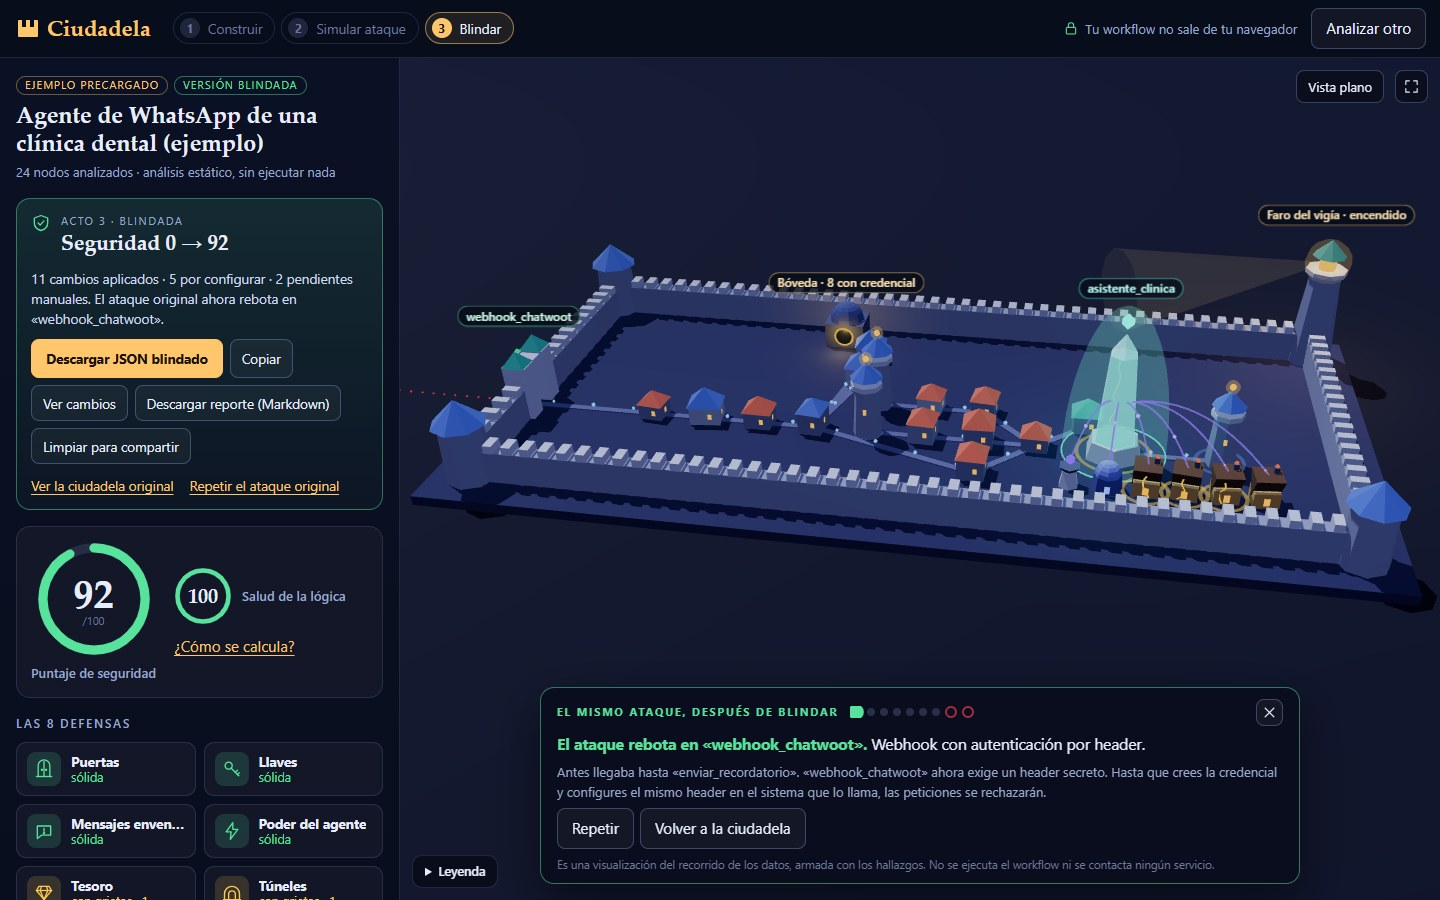
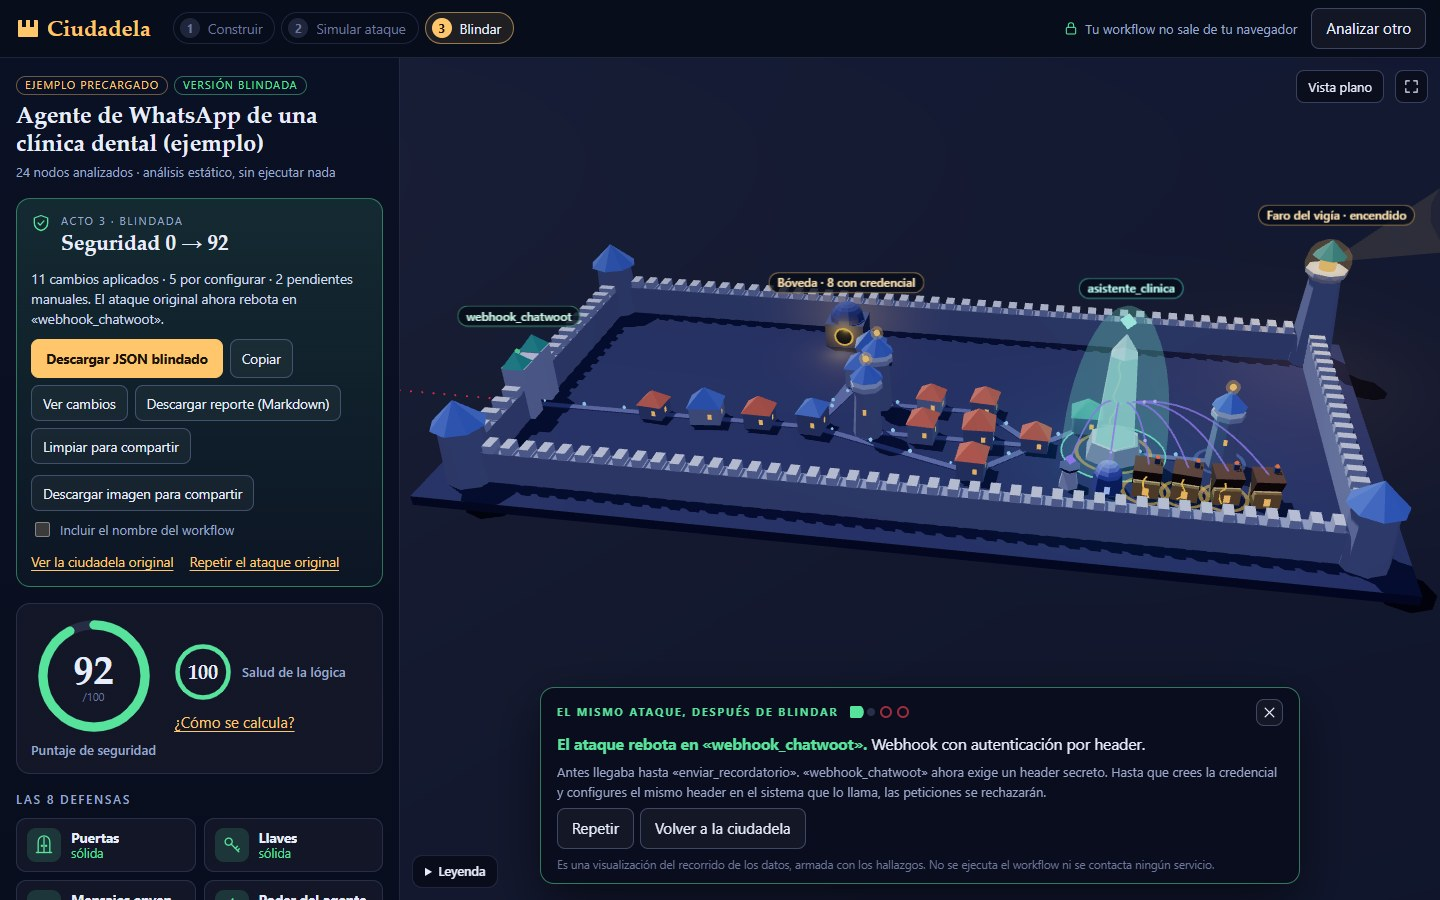
Cierre de la pasada de mejoras para el concurso
Resumen en la bitácora, capturas finales tomadas con todas las tareas aplicadas y límite de aviso del tamaño del bundle ajustado.

diff --git a/vite.config.ts b/vite.config.ts
@@ -24,6 +24,6 @@ function metadatosParaCompartir(): Plugin {
 export default defineConfig({
   base: './',
   plugins: [metadatosParaCompartir()],
-  build: { target: 'es2022', chunkSizeWarningLimit: 900 },
+  build: { target: 'es2022', chunkSizeWarningLimit: 1000 },
   test: { include: ['tests/**/*.test.ts'], environment: 'node' },
 });

diff --git a/BITACORA.md b/BITACORA.md
@@ -414,3 +414,37 @@ Nada falló en esta tarea.
 - Antes de blindar y en la vista plano el botón no aparece (D74); al volver a 3D reaparece y la casilla conserva su estado.
 - Consola limpia. 221 pruebas pasan.
 - Muestra: `docs/capturas/mejoras-t6-tarjeta.png`.
+
+### Cierre de la pasada
+
+| Tarea | Estado | Commit |
+|---|---|---|
+| 1. Que los dos clímax se vean | Hecha | `b26a34a` |
+| 2. Ritmo de la simulación | Hecha | `9cd9b77` |
+| 3. Vista previa al compartir el link | Hecha | `a147eca` |
+| 4. Demostración guiada | Hecha | `46e3ee7` |
+| 5. Reparar del todo los formularios reales | Hecha | `960f7e1` |
+| 6. Tarjeta para compartir (opcional) | Hecha | `48c3fcc` |
+
+No quedó ninguna tarea sin hacer.
+
+**Verificación final, sobre el build de producción** (`npm run build` servido con `vite preview`, Chrome sin interfaz)
+
+- Los tres ejemplos recorren los tres actos a 1440×900 (3D) y a 390×800 (vista plano): clínica 0 → 92, formulario 84/82 → 98/100, bien blindado 100 sin nada que corregir. Consola limpia y ninguna petición a otro origen en los seis recorridos.
+- La demostración guiada corre completa en 51 segundos.
+- 221 pruebas pasan, 0 omitidas. `npm run build` genera `dist/` (915 kB de JS, 252 kB comprimido).
+- Las capturas de `docs/capturas/mejoras-*` se volvieron a tomar al final, con todas las tareas aplicadas.
+
+**Lo que no se pudo verificar aquí**
+
+- **Nada de esta pasada está desplegado.** Los commits están en local; el sitio público sigue en la versión anterior hasta que se suban.
+- **La tarjeta del link en Skool y en X.** Solo se ve con el sitio publicado. Las etiquetas y la imagen están en el HTML construido.
+- **La demostración bajo la política de contenido de Netlify.** En local no hay cabeceras. La demostración y la tarjeta no usan scripts en línea ni otros orígenes; la descarga de la tarjeta usa un enlace `blob:`, igual que las descargas que ya existían.
+- **La importación en n8n del ejemplo 2 blindado**, que ahora agrega `phone` al Set: `docs/verificacion/formulario-leads-agencia-blindado.json`.
+- **La fluidez en una laptop real.** El Chrome sin interfaz sirve para medir tiempos y encuadres, no para juzgar cuadros por segundo en el equipo de quien lo use.
+- **La grabación del video.** Se cuidó que los atajos de grabación no interrumpan la demostración, pero no se grabó ninguno.
+
+**Para decidir antes de subir**
+
+- La dirección del sitio en las etiquetas es `https://ciudadela0.netlify.app`. Si la definitiva es otra, basta definir `URL_DEL_SITIO` en Netlify o cambiar `URL_POR_DEFECTO` en `vite.config.ts`.
+- El ejemplo 2 blindado ahora llega a lógica 100 (antes 94). Es consecuencia de la tarea 5 y está documentado en D71.

diff --git a/ARQUITECTURA.md b/ARQUITECTURA.md
@@ -2,7 +2,7 @@
 
 Ciudadela audita la seguridad de workflows de n8n con análisis estático. Todo corre en el navegador: no hay backend, ni analítica, ni peticiones de red en tiempo de ejecución.
 
-Estado: las seis fases están terminadas. Ver `BITACORA.md`.
+Estado: las seis fases y la pasada de mejoras para el concurso están terminadas. Ver `BITACORA.md`.
 
 ## Mapa del repositorio
 
